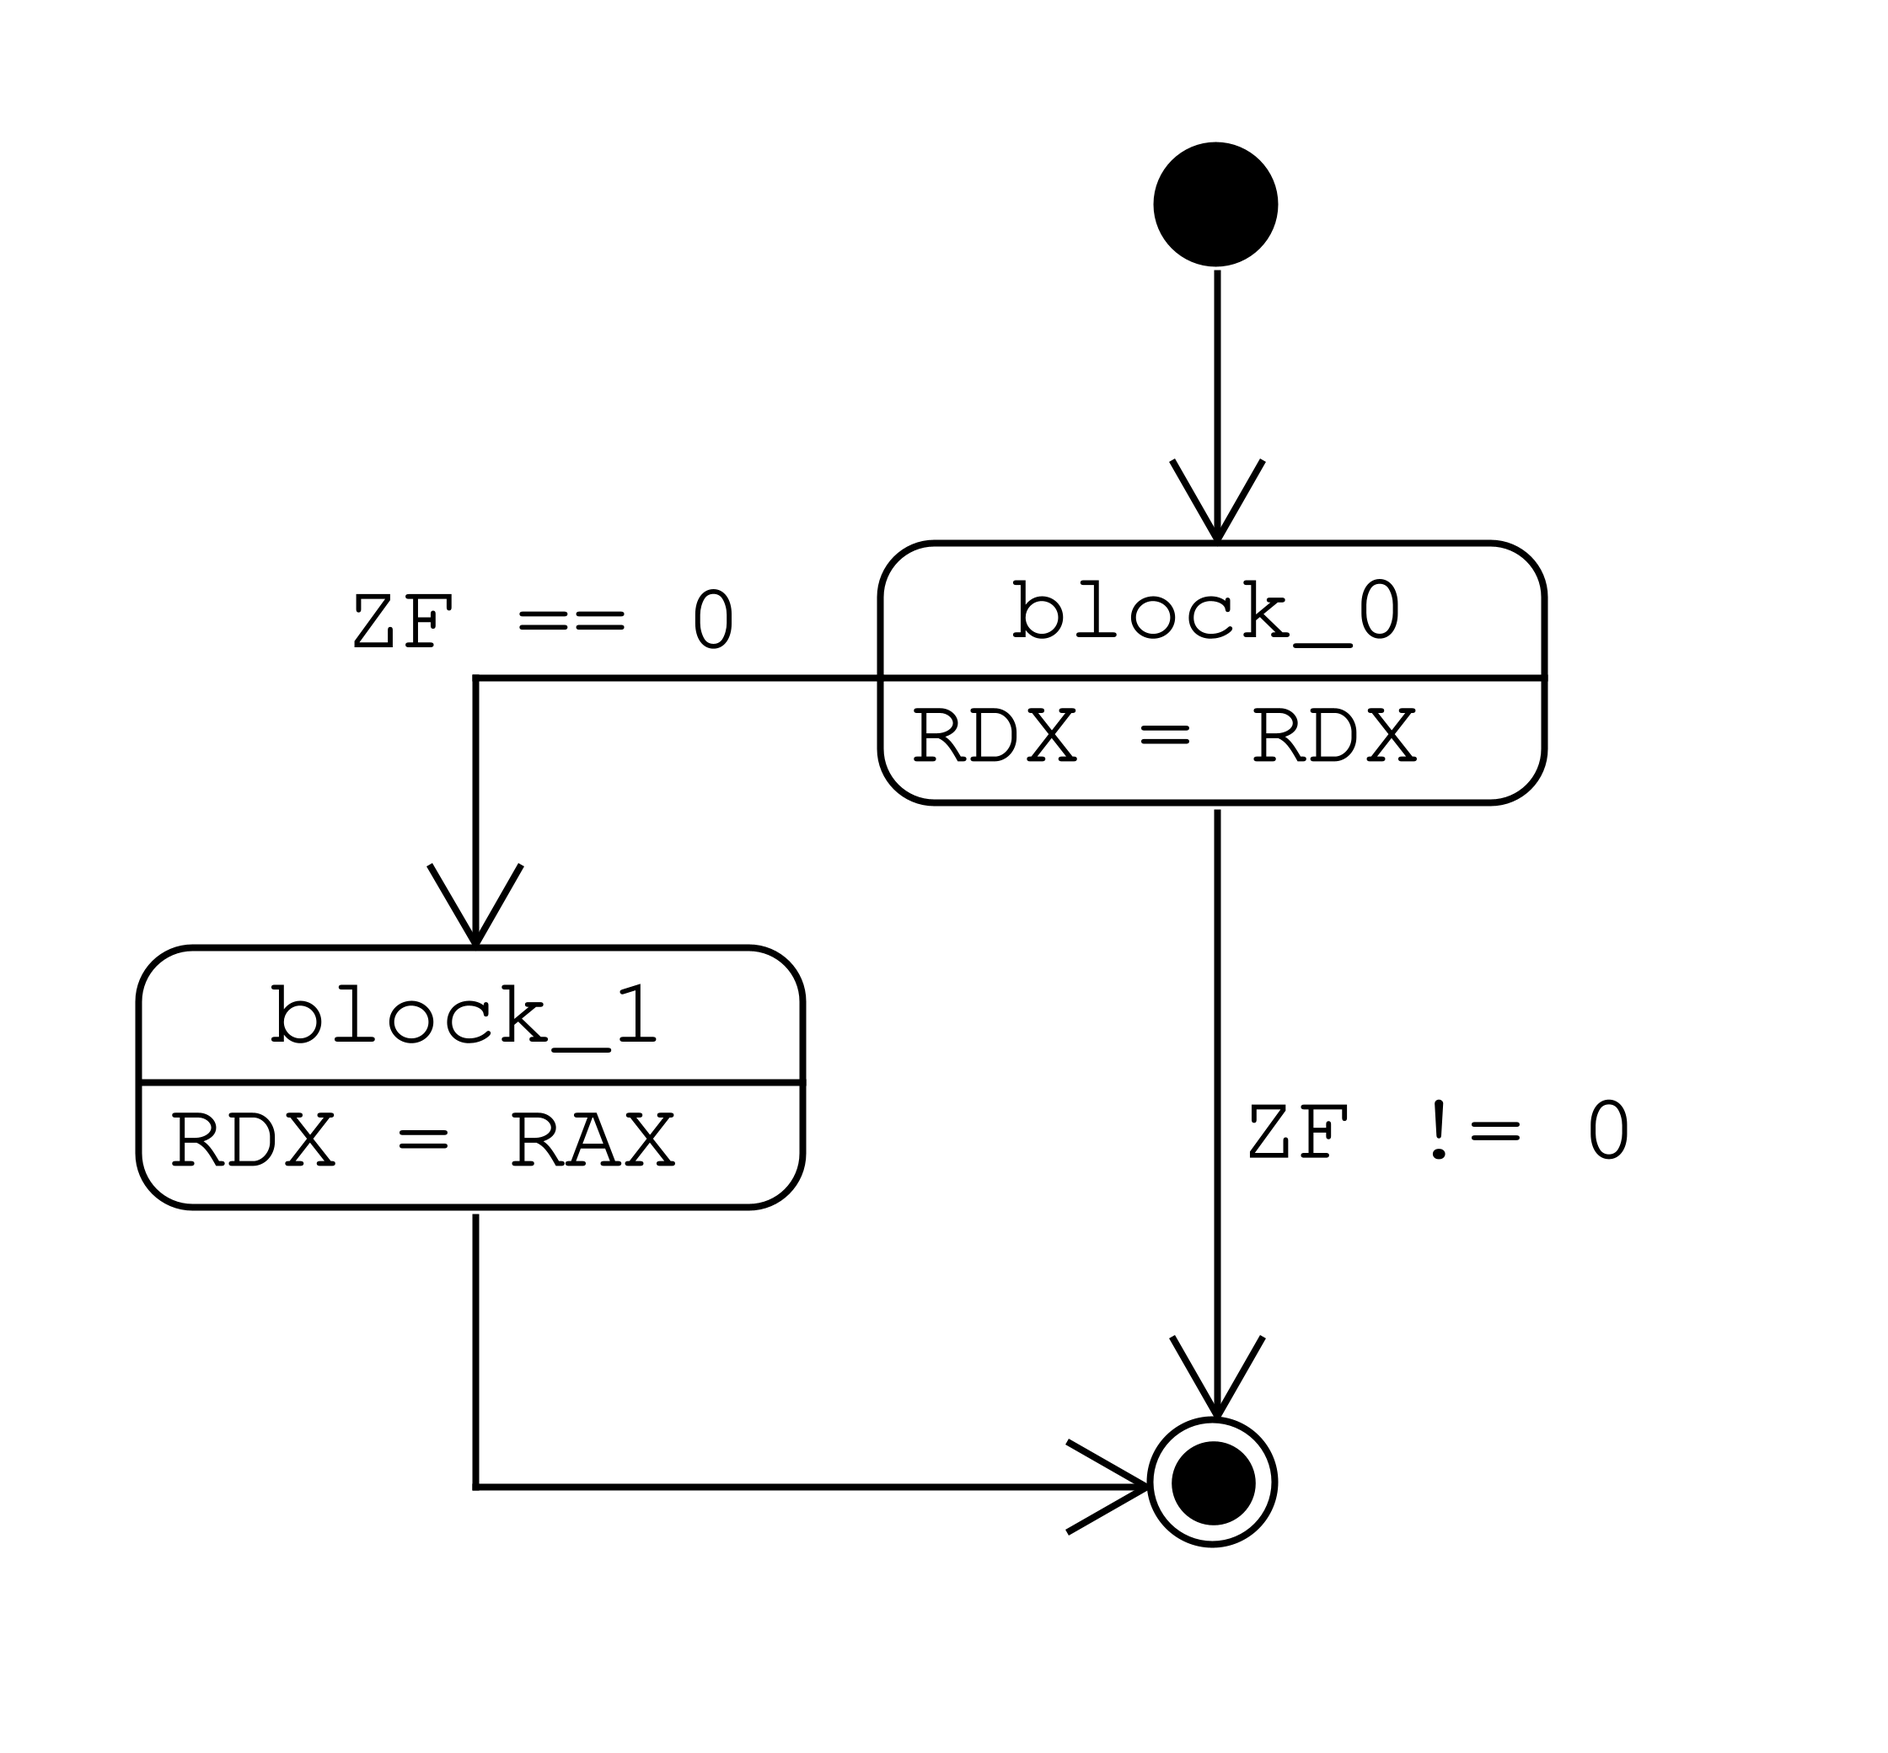
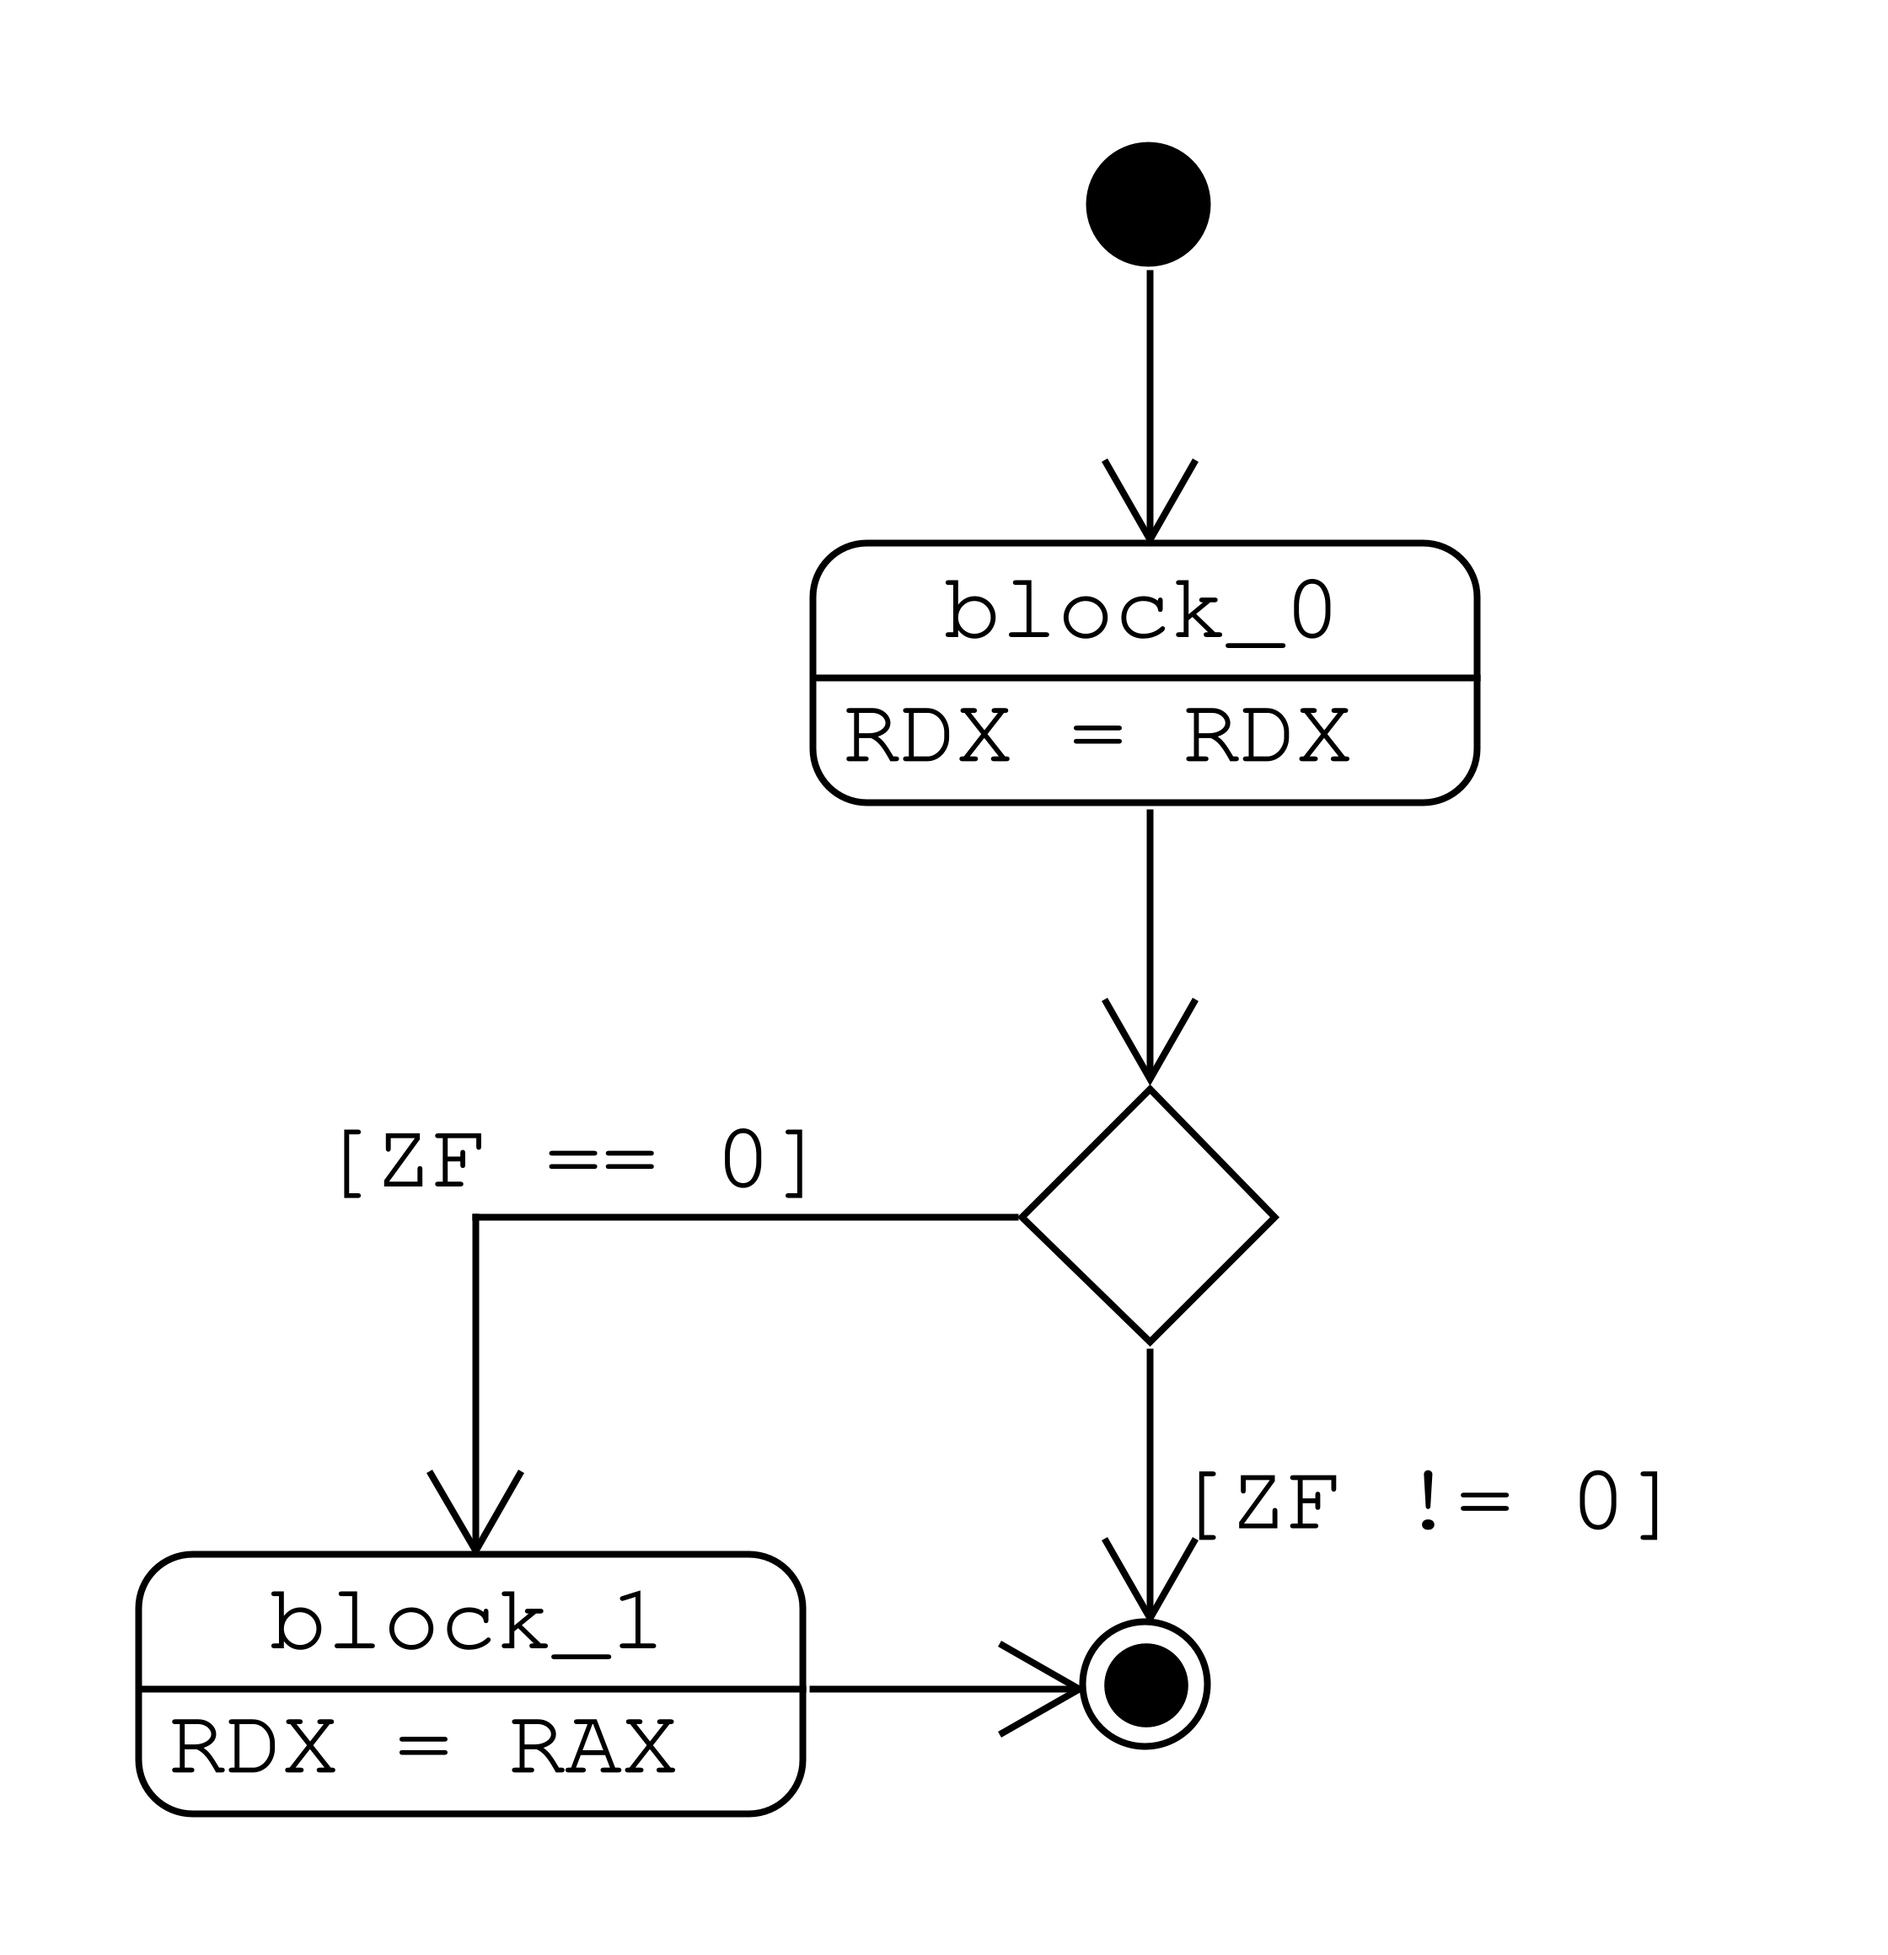
Use diamond for decisions in IR graph diagrams

diff --git a/chapters/implementation.tex b/chapters/implementation.tex
@@ -169,7 +169,7 @@ considered during symbolic expression generation.
 
 \begin{figure}[htpb]
     \centering
-    \includegraphics[width=0.7\linewidth]{figures/ir_graph_repstod.png}
+    \includegraphics[width=0.7\linewidth]{figures/ir_graph_repstosd.png}
     \caption{IR graph for \texttt{REP STOSD}}\label{fig:ir_graph_repstod}
 \end{figure}
 
